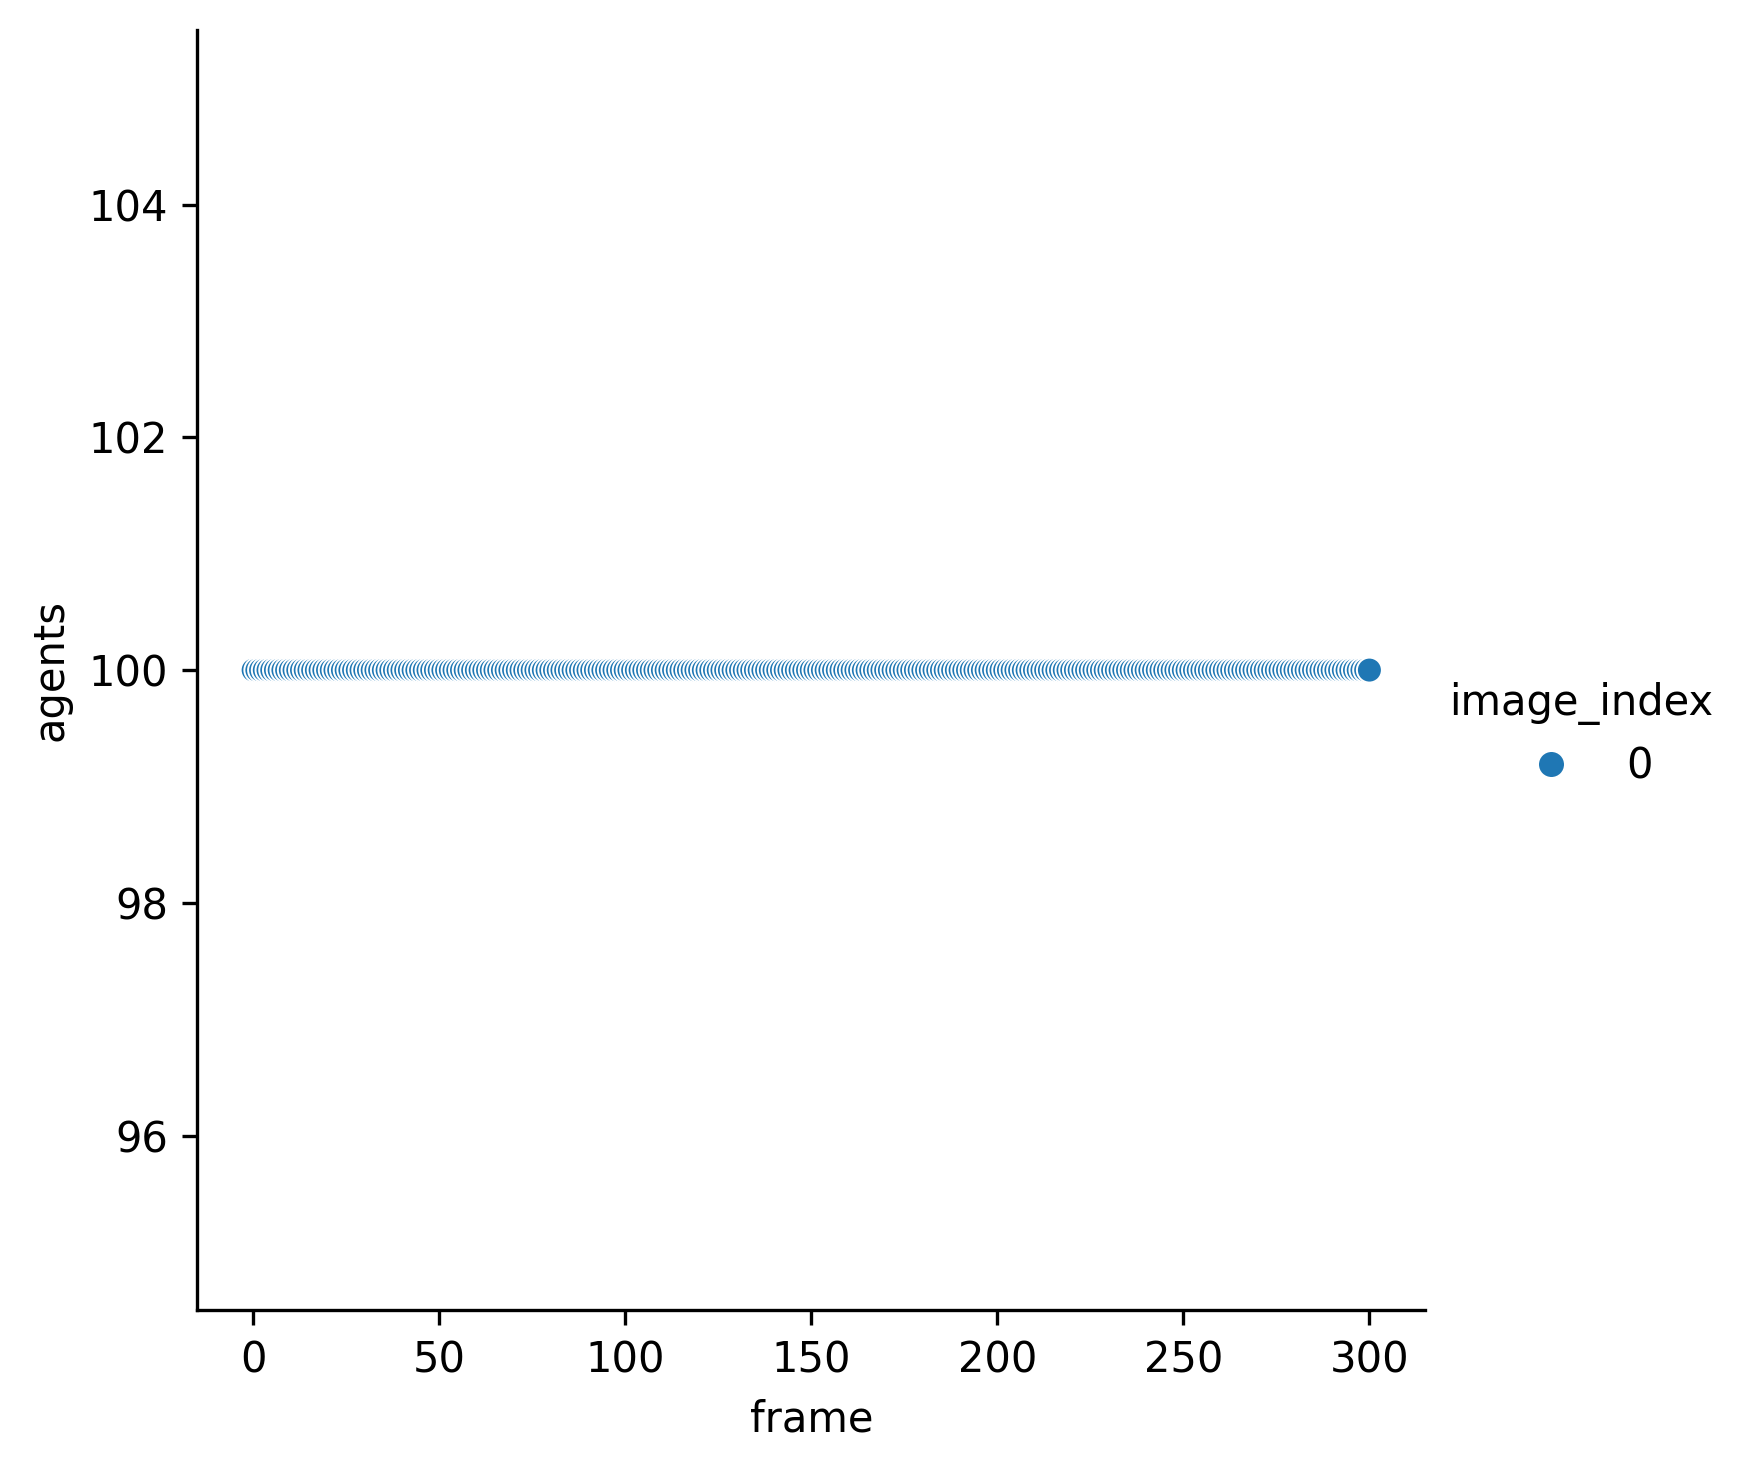
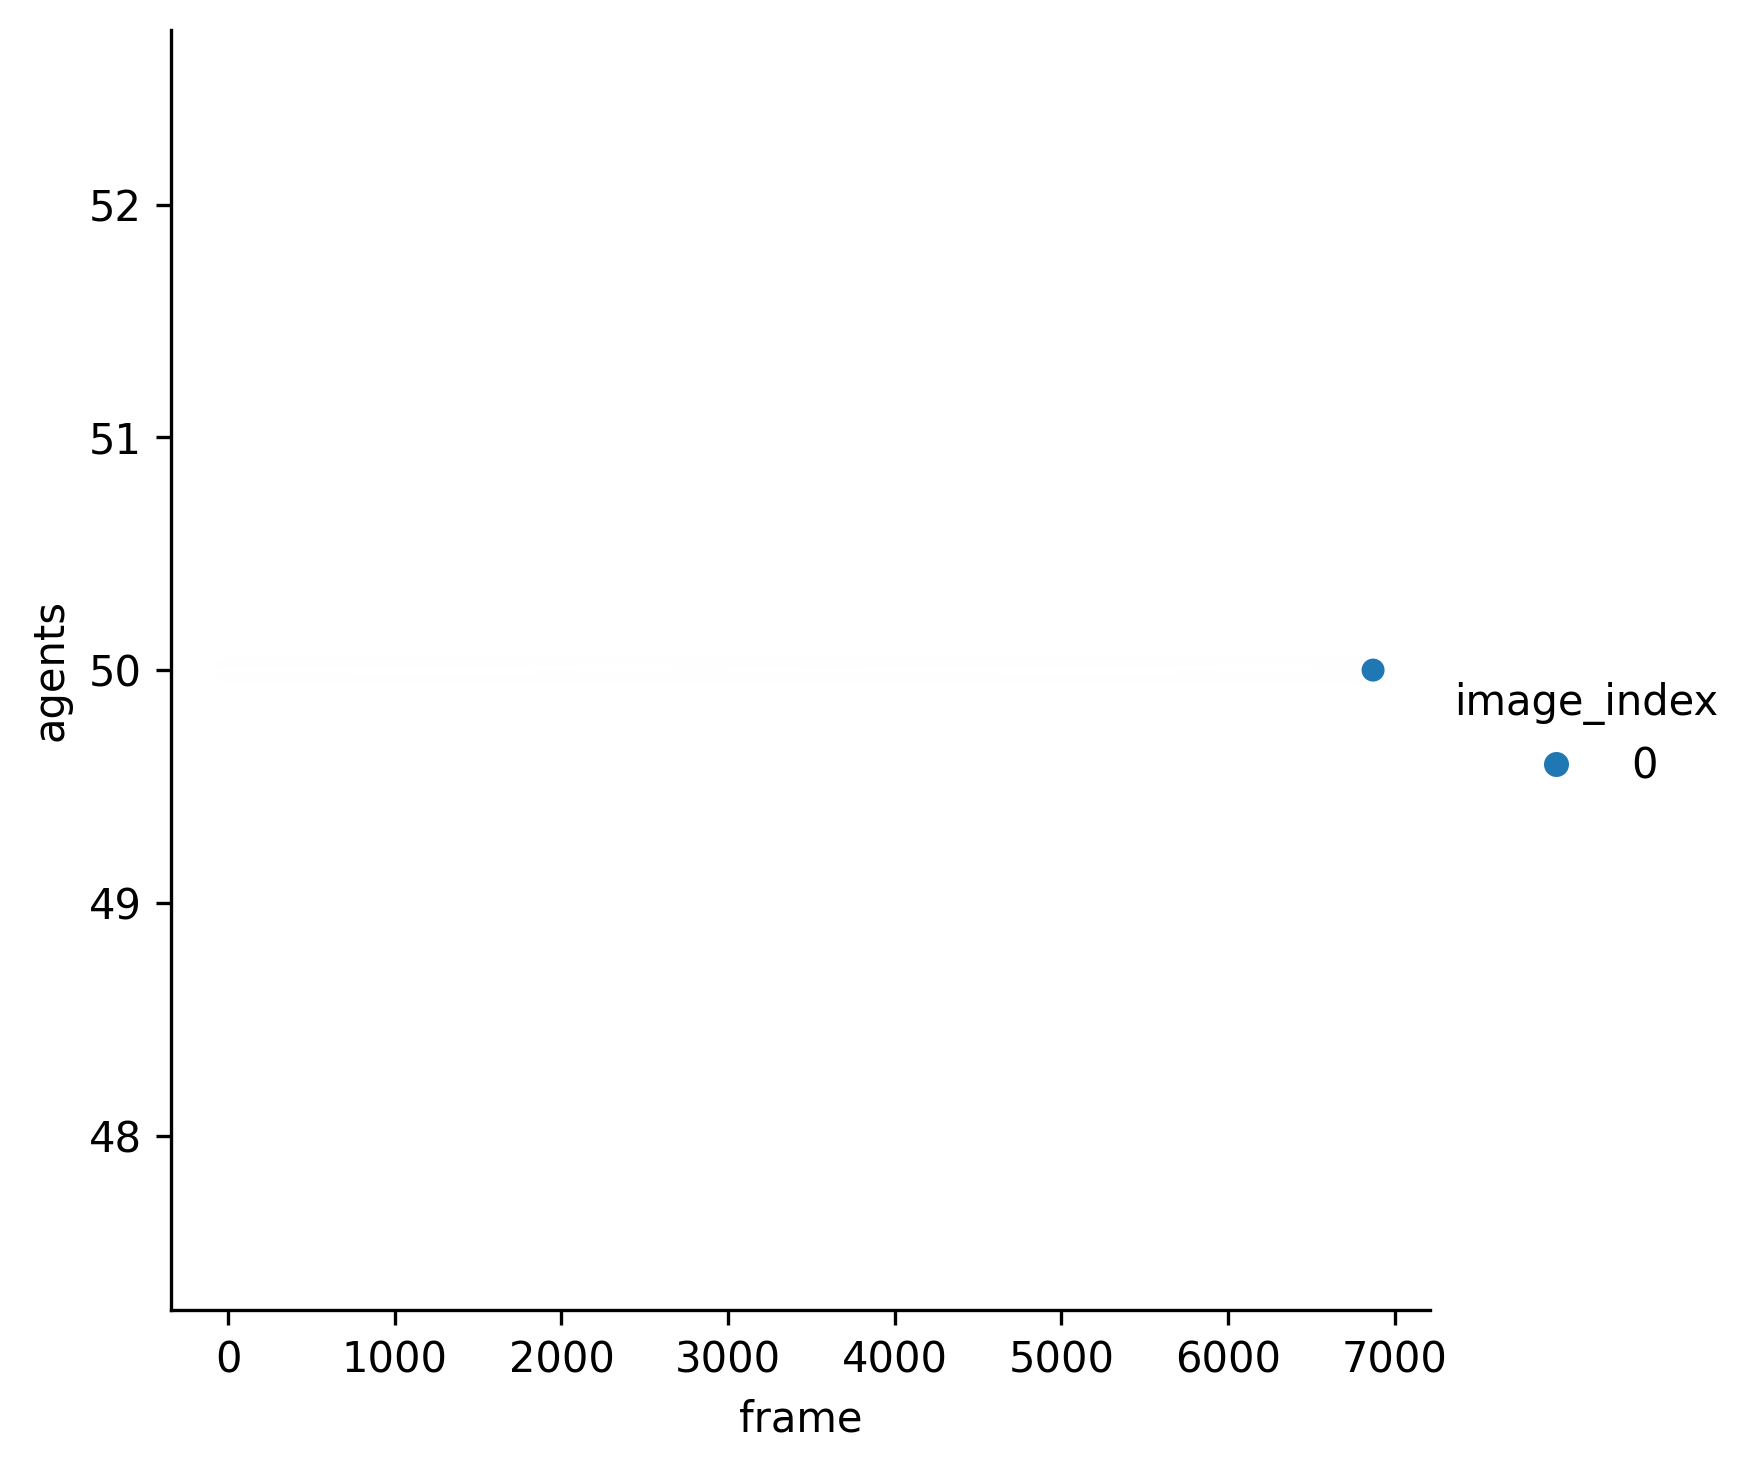
updating

diff --git a/Assignment_1/Aggregation_Stage_1.py b/Assignment_1/Aggregation_Stage_1.py
@@ -4,6 +4,8 @@ import random
 import pygame as pg
 import math
 from PIL import Image
+import polars as pl
+import seaborn as sns
 
 
 class AggregationConfig(Config):
@@ -17,7 +19,7 @@ class AggregationConfig(Config):
     p_base_leaving: float = 0.1                     # Old
     p_base_joining: float = 0.5                     # Old
     a: float = 0.6                                  # New value for joining probability
-    b: float = 2.6                                  # New value for leaving probability
+    b: float = 2.1                                  # New value for leaving probability
     time_step_d: int = 40                           # Number of time steps 'd' for sampling join/leave probability
     site_width: int = 0                             
     site_height: int = 0                
@@ -203,6 +205,7 @@ class AggregationSimulation(Simulation):
                     for agent in self._agents:
                         agent.state = "joining"
 
+df = (
 (
     AggregationSimulation(
         AggregationConfig(
@@ -217,4 +220,15 @@ class AggregationSimulation(Simulation):
     .spawn_site("Assignment_0/images/bubble-full.png", x=250, y=375)
     .spawn_site("Assignment_0/images/bubble-full-resized.png", x=500, y=375)
     .run()
+    .snapshots 
+    .group_by(["frame","image_index"])
+    .agg(pl.count("id").alias("agents"))
+    .sort(["frame", "image_index"])
+
 )
+)
+
+print(df)
+
+plot = sns.relplot(x=df["frame"], y=df["agents"], hue=df["image_index"])
+plot.savefig("agents.png", dpi=300)

diff --git a/Assignment_1/probability_optimization.py b/Assignment_1/probability_optimization.py
@@ -12,7 +12,7 @@ def P_leave(n, b):
 # Generate data
 n_values = np.array([0, 1, 2, 3])
 P_join_values = P_join(n_values, 0.6)  # Use initial guess for 'a'
-P_leave_values = P_leave(n_values, 0.5)  # Use initial guess for 'b'
+P_leave_values = P_leave(n_values, 2.1)  # Use initial guess for 'b'
 
 # Plot the data
 plt.figure(figsize=(10, 5))
